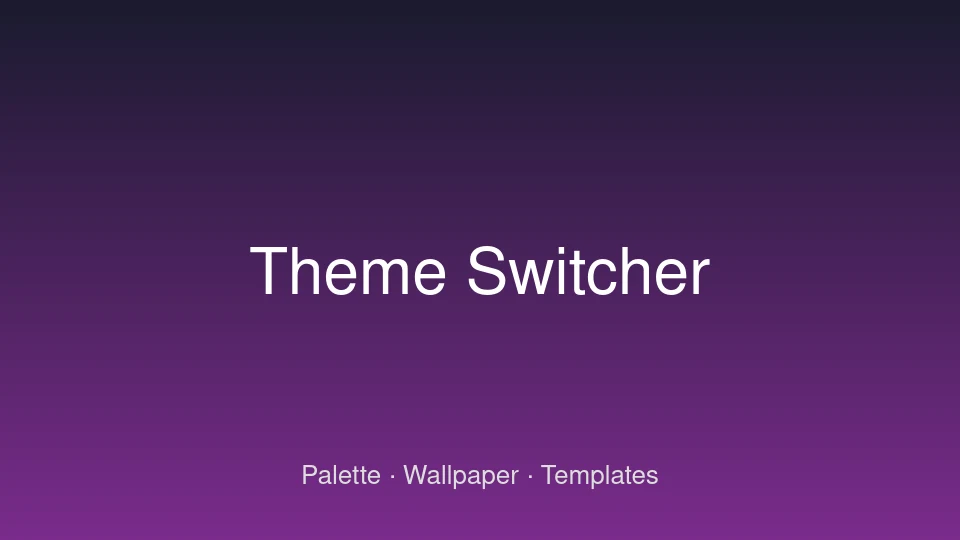
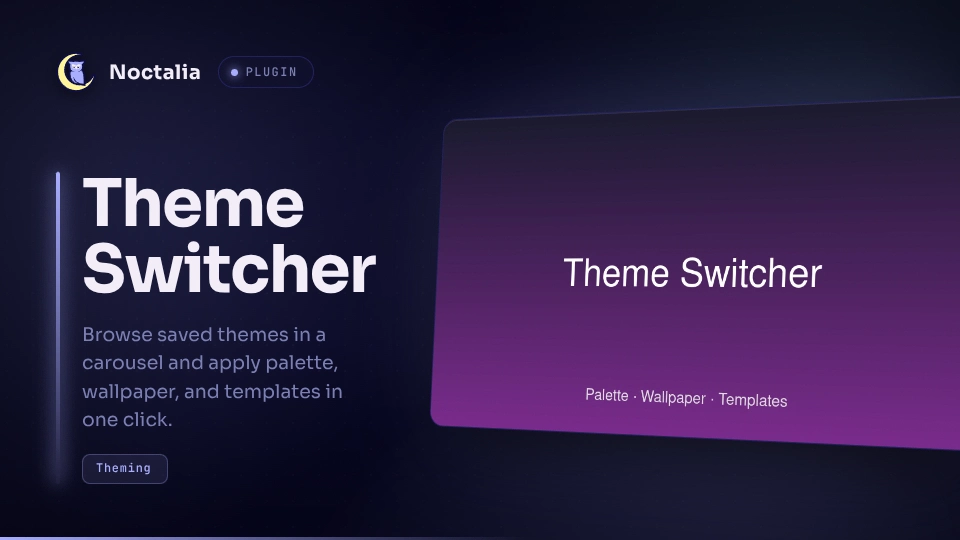
theme-switcher: generator thumbnail and documented screenshot dependencies
- Replace the plain title-card thumbnail with the official-generator export
  (Noctalia wordmark, PLUGIN badge, Theming chip, preview panel).
- Declare the screenshot tools the editor's Capture desktop helper probes
  (spectacle, grim, gnome-screenshot, scrot, maim) in plugin.toml.
- Add the README Requirements section the manifest now needs, and document the
  capture output path outside the plugin data dir plus the shell CLI spawns.

diff --git a/theme-switcher/README.md b/theme-switcher/README.md
@@ -9,6 +9,11 @@ Browse saved themes in a carousel and apply palette, wallpaper, and templates to
 | ID | `theblackdon/theme-switcher` |
 | Entries | Shortcut: `open`; shortcut: `wallpaper`; shortcut: `random`; bar widget: `theme-switcher`; panel: `carousel`; panel: `editor`; panel: `wallpapers`; service: `wallpaper-ipc` |
 
+## Requirements
+
+- No dependency is needed to browse, apply, or switch themes and wallpapers.
+- The editor's `Capture desktop` helper needs at least one screenshot tool on `PATH`: `spectacle`, `grim`, `gnome-screenshot`, `scrot`, or `maim`. The first one that exists is used. Without any of them the button reports a capture failure; everything else keeps working.
+
 ## Usage
 
 1. Enable the plugin in Settings → Plugins.
@@ -71,3 +76,5 @@ Applying a theme sets the active wallpaper first, then runs `noctalia msg color-
 - Community palettes are listed from the Noctalia palette catalog over HTTP, with an offline fallback to the plugin's cached copy and the shell's community-palette cache.
 - Custom palettes are read from `~/.config/noctalia/palettes/*.json`.
 - Themes are stored in the plugin's data directory (`themes.json`).
+- `Capture desktop` runs the screenshot tool found on `PATH` directly (no shell) and writes the PNG to `~/Pictures/Screenshots`, then stores that path in the theme. It is the only thing this plugin writes outside its data directory, and it only runs when you press the button.
+- Applying a theme spawns the shell CLI (`noctalia`, or `noctalia-kwe` on this build) for `color-scheme-set` and `templates-apply`. Wallpaper changes go through the shell's own `noctalia.setWallpaper` API.
